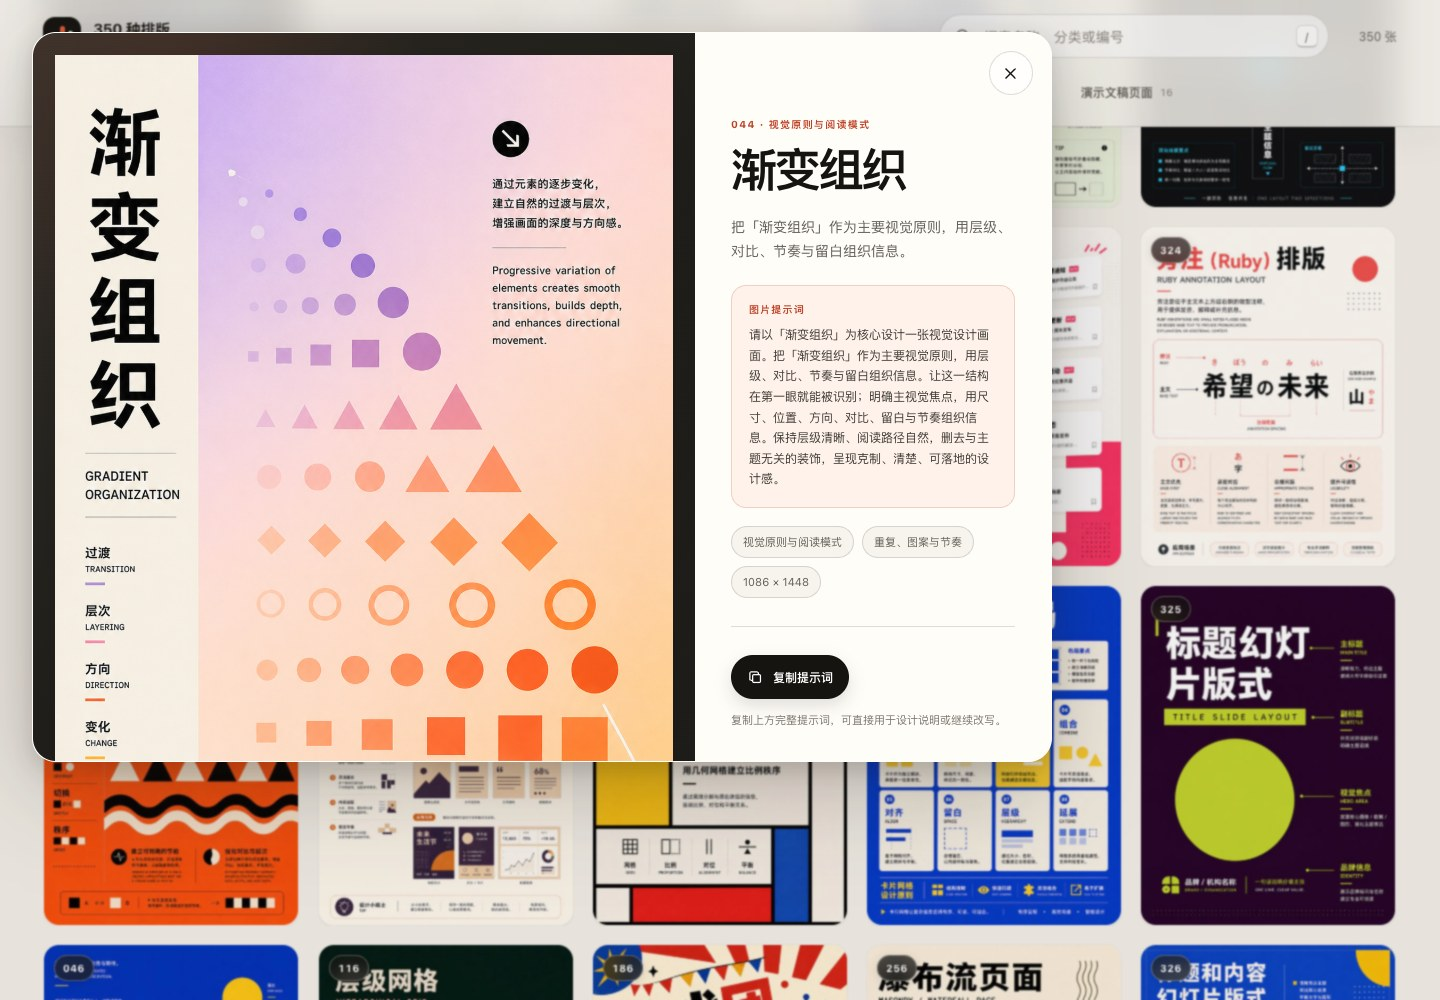
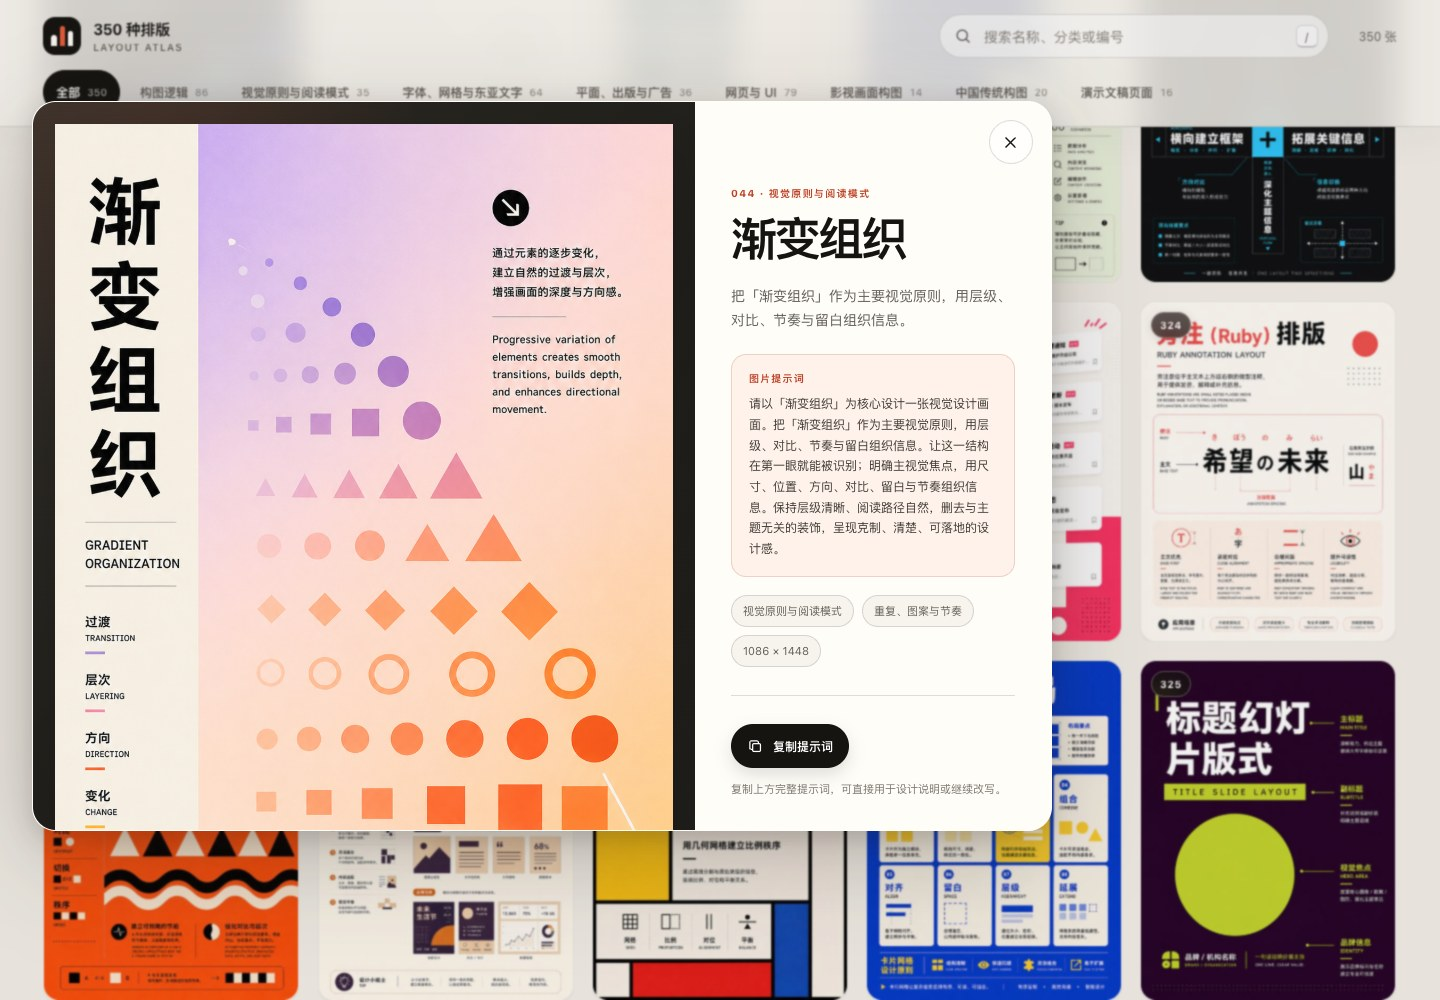
docs: showcase the interactive gallery as the fork's main contribution
Introduce the browsing experience, explain local access and prompt provenance, and refresh the three screenshots after rendering completes.

diff --git a/README.md b/README.md
@@ -1,27 +1,43 @@
-# 350 种排版 · 分类图鉴
+# 350 种排版 · 流动图鉴
 
-从经典构图、视觉原则，到出版广告、字体网格、网页 UI、影视、中国传统构图和演示文稿：350 种排版，按 8 个一级分类与 33 个二级主题组织成可浏览、可检索、可下载的知识图鉴。
+把 350 张排版参考卡片变成一个可以自由浏览的桌面端瀑布流：顺着画面寻找灵感，悬停查看线索，点击从原位展开，再复制感兴趣的设计描述继续创作。
 
-> 这是原「100 种排版」项目的新版扩展。旧版 100 张高清图、缩略图和下方画廊均原样保留，原有链接继续可用。
+这是 [jinhanbuilds](https://github.com/jinhanbuilds) 基于 [nevertoday/350-layout-compositions](https://github.com/nevertoday/350-layout-compositions) 制作的 Fork。原项目提供排版图片与分类资料；本 Fork 的主要贡献是交互浏览页面、图片对应的设计描述与一键复制体验。
 
-## 本地瀑布流图鉴
+**[下载并体验页面](https://github.com/jinhanbuilds/350-layout-compositions/archive/refs/heads/main.zip)** · [查看页面源码](index.html) · [浏览原项目](https://github.com/nevertoday/350-layout-compositions)
 
-直接打开 [`index.html`](index.html)，即可在桌面浏览器中使用瀑布流视图：
+下载整个仓库并解压，使用桌面浏览器打开根目录的 `index.html`，即可浏览全部卡片，无需安装依赖或启动服务。图片文件夹需要与页面一起保留。GitHub 上的「页面源码」链接展示代码，交互体验请打开下载后的本地文件。
 
-- 悬停卡片查看名称、分类与主题线索。
-- 点击卡片从原位置展开高清详情，点击背景或按 `Esc` 收回。
-- 按名称、分类或编号搜索，并可按 8 个一级分类筛选。
-- 展开后直接阅读图片对应的设计提示词，并一键复制这段完整文本。
+## 这个 Fork 增加了什么
 
-网页图鉴按图片中的可见标题校正展示信息；源图片中存在少量同主题的不同卡片，因此网页允许主题重复，不强行把 350 个目录名称各分配一次。
+- **自由浏览**：350 张卡片以瀑布流呈现，支持搜索和 8 个一级分类筛选。
+- **悬停看线索**：鼠标移到卡片上，显示名称、分类与主题，帮助快速判断是否感兴趣。
+- **原位展开**：点击后卡片从当前位置展开为悬浮详情，阅读高清图与文字说明；点击背景或按 `Esc` 回到浏览位置。
+- **复制设计描述**：详情中展示可复用的设计提示词，按钮复制的内容与可见文本完全一致。
 
-### 页面预览
+页面面向桌面端浏览，展开与收回使用连贯过渡，并支持系统的减少动态效果设置。
+
+## 页面预览
+
+**浏览总览** · 从图片出发寻找感兴趣的构图与版式。
 
 ![350 种排版瀑布流总览](docs/screenshots/gallery-overview.jpg)
 
+**悬停查看** · 不离开瀑布流，就能看到卡片的名称和分类线索。
+
 ![卡片悬停信息](docs/screenshots/gallery-hover.jpg)
 
+**展开与复制** · 在同一个浮层中查看高清参考图、设计描述和复制按钮。
+
 ![原地展开并浏览图片提示词](docs/screenshots/gallery-detail.jpg)
+
+## 图片与文字来源
+
+图片与原始分类资料来自上游项目，保留原作者署名及仓库的 [CC BY 4.0 许可证](LICENSE)。本 Fork 新增网页界面，并按图片中可见的标题校正网页展示信息；原图片文件名和原始目录继续保留。
+
+页面中的「图片提示词」是围绕对应设计概念整理的可复用描述，并非原作者生成图片时使用的原始提示词，也不保证复现示例图。源图片包含少量同主题卡片，因此网页保留全部 350 张图片，允许主题重复。
+
+以下保留原项目的分类图鉴、下载入口与说明，方便继续查阅。
 
 ## 浏览新版
 
